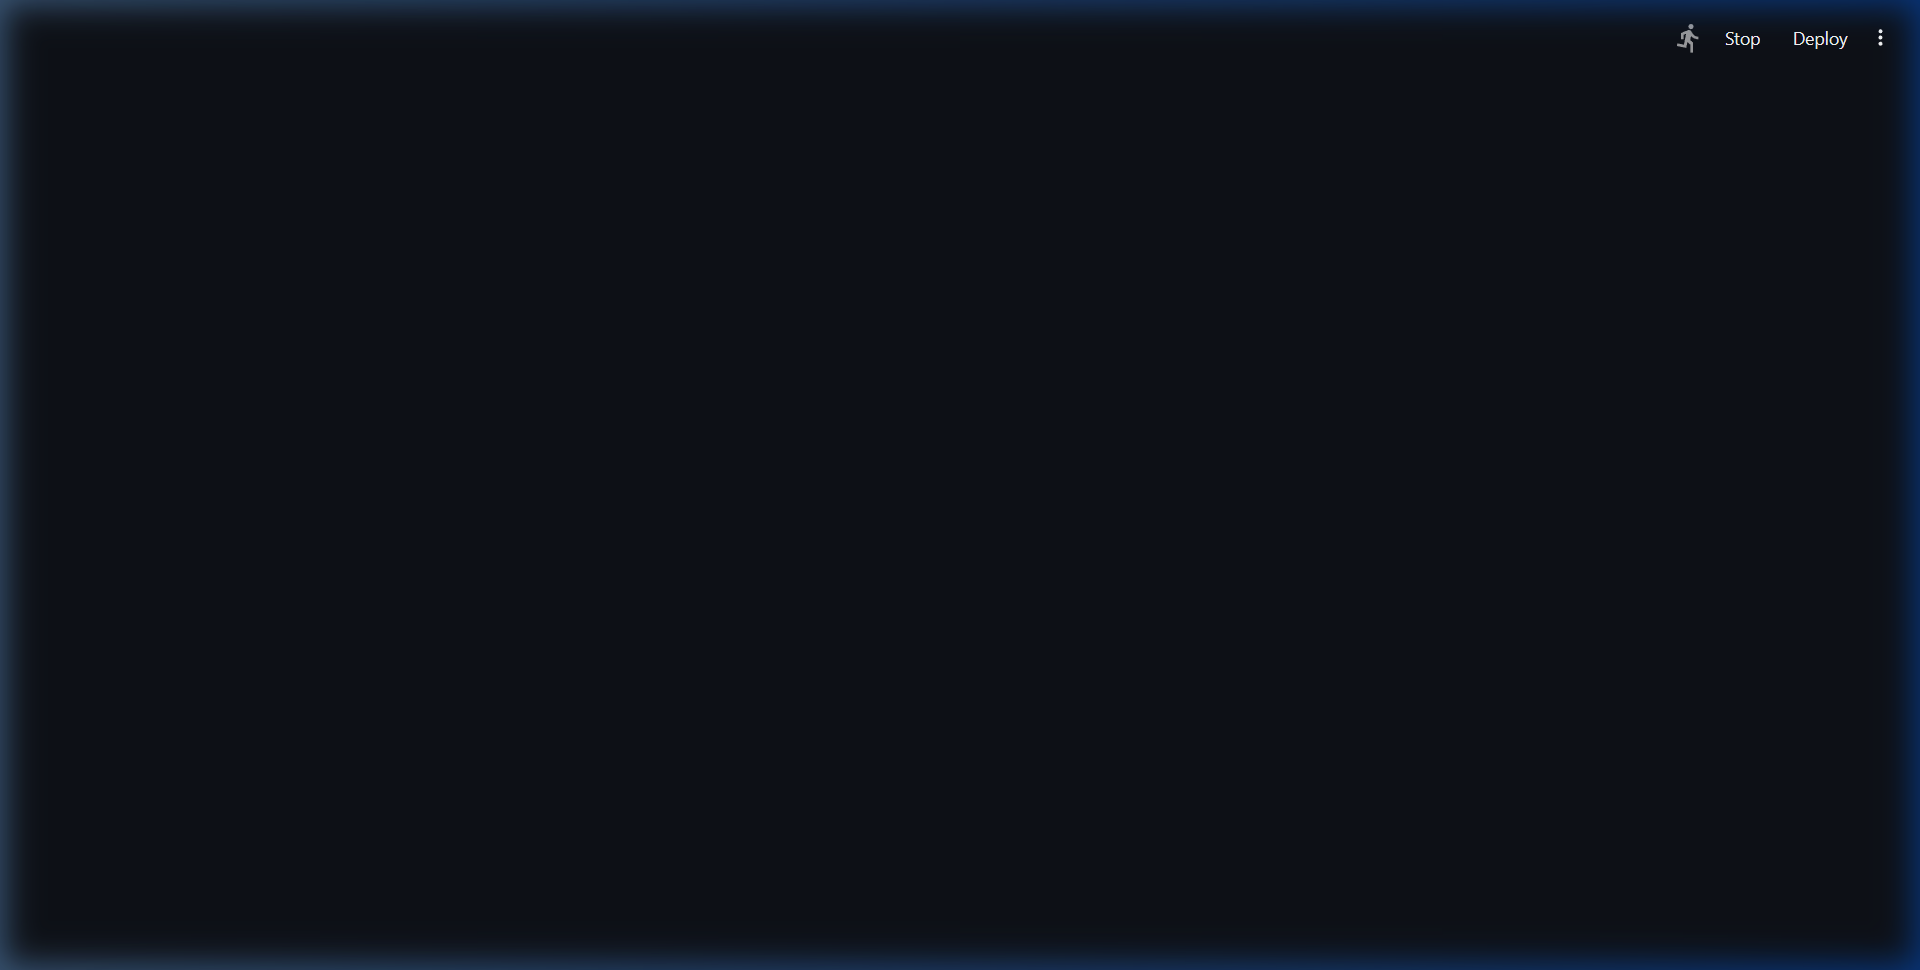
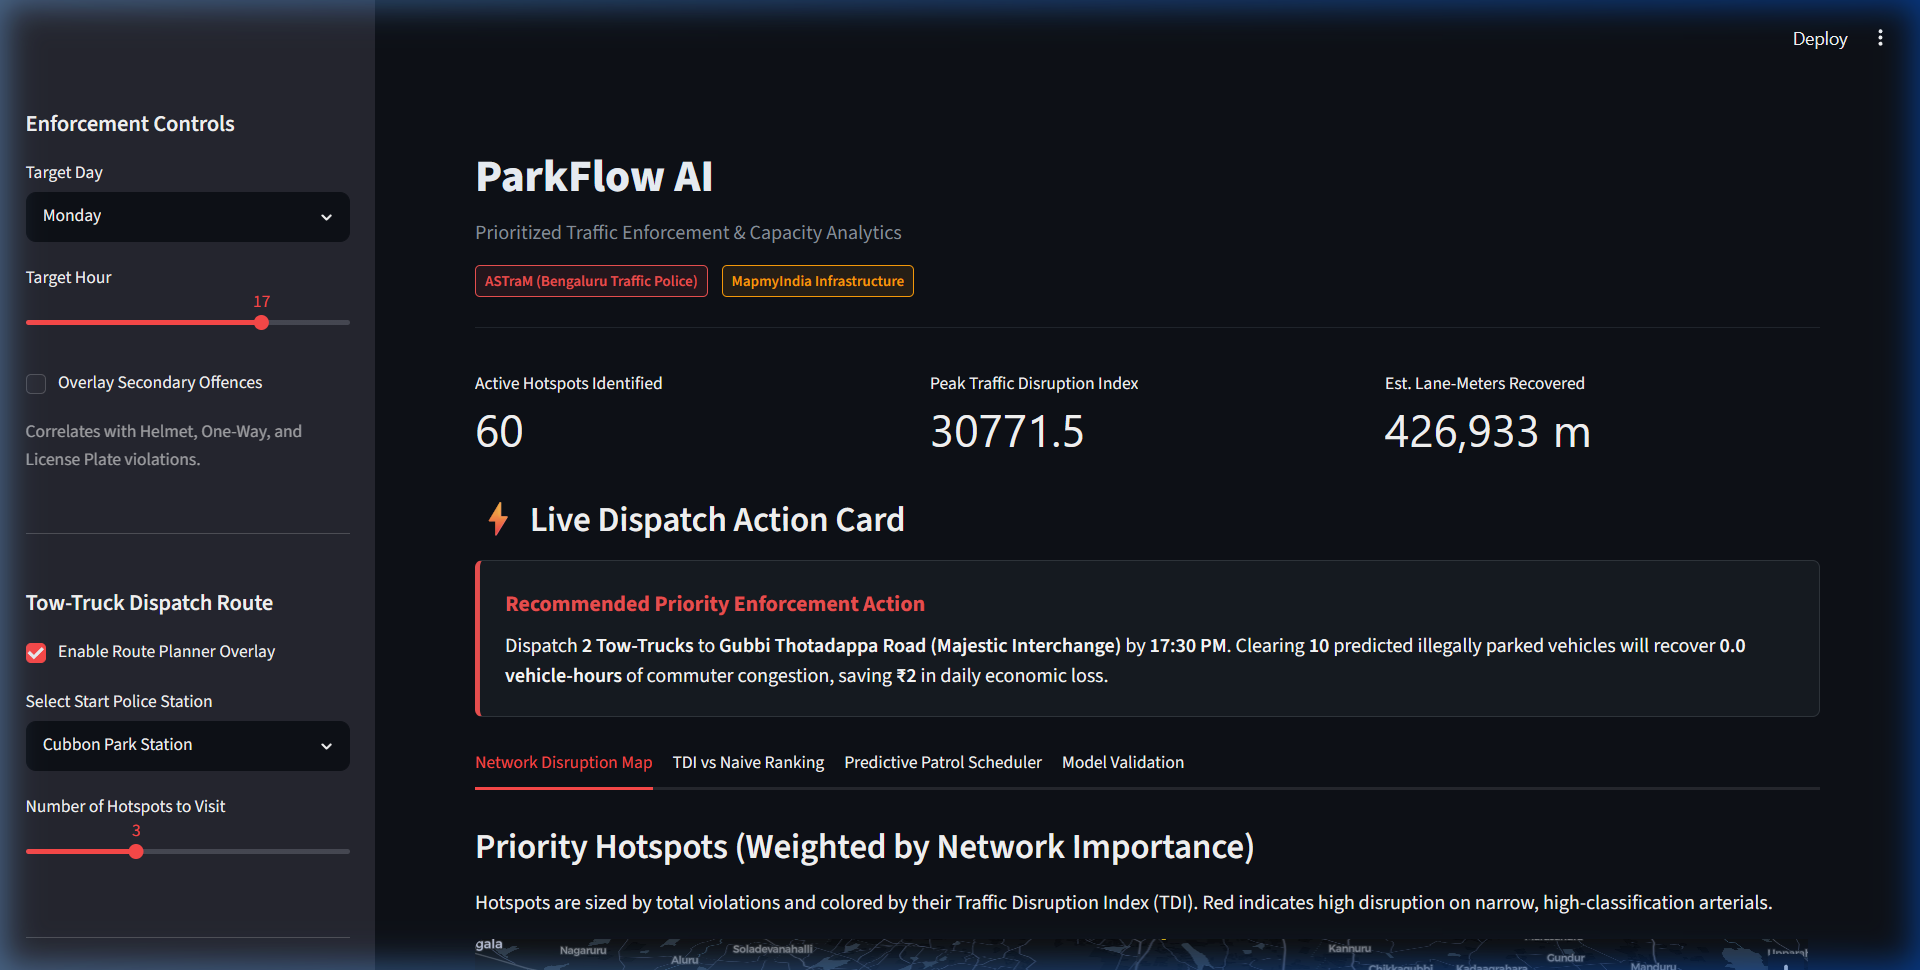
feat: clean hotspot road names and implement professional path text overlays on map

diff --git a/app.py b/app.py
@@ -95,6 +95,83 @@ st.markdown("""
 HOTSPOTS_FILE = os.path.join("data", "parking_hotspots.csv")
 MODEL_FILE = os.path.join("data", "predictor.pkl")
 
+def clean_hotspot_names(df):
+    names_map = {
+        480: "Gubbi Thotadappa Road (Majestic Interchange)",
+        736: "Rajajinagar 1st Block Main Road",
+        719: "Shivajinagar Central Corridor",
+        285: "Bellandur Outer Ring Road (ORR) Bypass",
+        780: "Malleshwaram 8th Cross Road",
+        617: "Vijayanagar Chord Road Bottleneck",
+        1240: "Yelahanka High Street Sector",
+        584: "Mysore Road Arterial Link",
+        964: "Mahadevapura IT Corridor (Hoodi)",
+        1104: "Hebbal Flyover Approach Zone",
+        835: "Jaya Chamarajendra (JC) Road Junction",
+        651: "Indiranagar 100ft Road Corridor",
+        489: "Whitefield Main Road (ITPL Link)",
+        848: "Frazer Town Promenade Road",
+        575: "Koramangala 80ft Road Corridor",
+        254: "Jayanagar 4th Block Shopping Street",
+        375: "Basavanagudi Gandhi Bazaar Road",
+        744: "MG Road Metro Station Area",
+        11: "Hosur Road Toll Gate Exit",
+        898: "Kalyan Nagar Double Road",
+        183: "HSR Layout Sector 1 Main Road",
+        873: "Banaswadi Main Road Bottleneck",
+        497: "Marathahalli Bridge Underpass",
+        444: "Chandra Layout Main Road",
+        684: "Chickpet Commercial Alleyway",
+        635: "Residency Road Commercial Zone",
+        71: "Bommanahalli Junction (Hosur Rd)",
+        864: "Kaggadasapura Railway Crossing Rd",
+        523: "Domlur Flyover Exit Corridor",
+        323: "Koramangala 5th Block Hub",
+        943: "Kammanahalli Main Road",
+        563: "Lalbagh Road Double Road",
+        134: "BTM Layout 2nd Stage Ring Rd",
+        1071: "RT Nagar Main Road Corridor",
+        657: "Halasuru Metro Station Access Road",
+        627: "Richmond Road Primary Arterial",
+        1166: "Sanjay Nagar Main Road",
+        775: "Rajajinagar Chord Road Link",
+        811: "Cantonment Railway Station Approach",
+        555: "Mysore Road Toll Gate Junction",
+        465: "Wilson Garden 10th Cross",
+        282: "HSR Layout Sector 3 Junction",
+        849: "CV Raman Nagar Main Road",
+        1213: "Vidyaranyapura Main Road",
+        342: "Jayanagar 9th Block Circle",
+        170: "JP Nagar 2nd Phase Underpass",
+        636: "Whitefield Outer Ring Road",
+        1274: "Bagalur Main Road Intersection",
+        583: "Chamrajpet 80ft Road",
+        706: "Cubbon Park Police Station Area",
+        1050: "Hebbal Kempapura Main Road",
+        117: "Electronic City Phase 1 Entry",
+        1001: "Peenya Industrial Area Stage 1",
+        715: "Kasturi Nagar Outer Ring Road",
+        1089: "Yeswanthpur Railway Station Rd",
+        198: "Bannerghatta Road (MICO Layout)",
+        275: "Silk Board Junction Flyover",
+        157: "BTM Layout 1st Stage Main Road",
+        797: "Varthur Road (Gunjur Link)",
+        1014: "Sahakara Nagar Main Road"
+    }
+    
+    for idx, row in df.iterrows():
+        c_id = int(row['cluster_id'])
+        if c_id in names_map:
+            df.at[idx, 'name'] = names_map[c_id]
+        elif row['name'] == 'Unnamed Road' or pd.isna(row['name']):
+            pois = str(row['poi_details'])
+            if pois != 'None' and len(pois) > 3:
+                first_poi = pois.split(',')[0].split('(')[0].strip()
+                df.at[idx, 'name'] = f"{str(row['highway']).capitalize()} near {first_poi}"
+            else:
+                df.at[idx, 'name'] = f"Arterial Corridor (Cluster #{c_id})"
+    return df
+
 # Load Datasets safely
 def load_hotspots():
     if os.path.exists(HOTSPOTS_FILE):
@@ -108,6 +185,9 @@ def load_predictor():
     return None
 
 hotspots_df = load_hotspots()
+if hotspots_df is not None:
+    hotspots_df = clean_hotspot_names(hotspots_df)
+
 predictor_model = load_predictor()
 
 if hotspots_df is None:
@@ -292,8 +372,8 @@ with tab_map:
             return [250, 204, 21, 220]  # Yellow
 
     hotspots_df['color'] = hotspots_df['tdi'].apply(get_color)
-    # Radius based on violation count (scaled)
-    hotspots_df['radius'] = np.sqrt(hotspots_df['violation_count']) * 15
+    # Radius based on violation count (scaled properly to be visually aesthetic and localized, e.g. 60m to 300m)
+    hotspots_df['radius'] = 60 + (np.sqrt(hotspots_df['violation_count']) / np.sqrt(hotspots_df['violation_count'].max())) * 240
 
     # Define Pydeck Layers
     layers = [
@@ -308,7 +388,7 @@ with tab_map:
         )
     ]
 
-    # Calculate and Add Route LineLayer if enabled
+    # Calculate and Add Route LineLayer & visual path markings if enabled
     route_df = pd.DataFrame()
     if enable_routing:
         start_coords = POLICE_STATIONS[start_station]
@@ -337,6 +417,7 @@ with tab_map:
             
         route_df = pd.DataFrame(route_data)
         
+        # 1. Draw route connection lines
         layers.append(
             pdk.Layer(
                 "LineLayer",
@@ -346,6 +427,54 @@ with tab_map:
                 get_color=[240, 82, 82, 255], # Solid Red route line
                 get_width=4,
                 pickable=True
+            )
+        )
+        
+        # 2. Draw starting police station marker
+        station_df = pd.DataFrame([{
+            'lat': start_coords[0],
+            'lon': start_coords[1],
+            'name': start_station
+        }])
+        layers.append(
+            pdk.Layer(
+                "ScatterplotLayer",
+                station_df,
+                get_position=["lon", "lat"],
+                get_fill_color=[59, 130, 246, 255], # Bright Blue
+                get_radius=180, # Distinct police station circle size
+                pickable=True,
+                auto_highlight=True
+            )
+        )
+        
+        # 3. Draw text labels for the path sequence
+        text_data = [{
+            'lat': start_coords[0] + 0.0008, # Offset slightly north to avoid overlapping dot
+            'lon': start_coords[1],
+            'text': f"🚨 START: {start_station}",
+            'color': [59, 130, 246, 255]
+        }]
+        for idx, row in route_df.iterrows():
+            text_data.append({
+                'lat': row['end_lat'] + 0.0008, # Offset slightly north
+                'lon': row['end_lon'],
+                'text': f"📌 STOP {idx+1}: {row['name']}",
+                'color': [240, 82, 82, 255]
+            })
+        text_df = pd.DataFrame(text_data)
+        
+        layers.append(
+            pdk.Layer(
+                "TextLayer",
+                text_df,
+                get_position=["lon", "lat"],
+                get_text="text",
+                get_size=15,
+                get_color="color",
+                get_alignment_baseline="'bottom'",
+                get_angle=0,
+                pickable=False
             )
         )
 